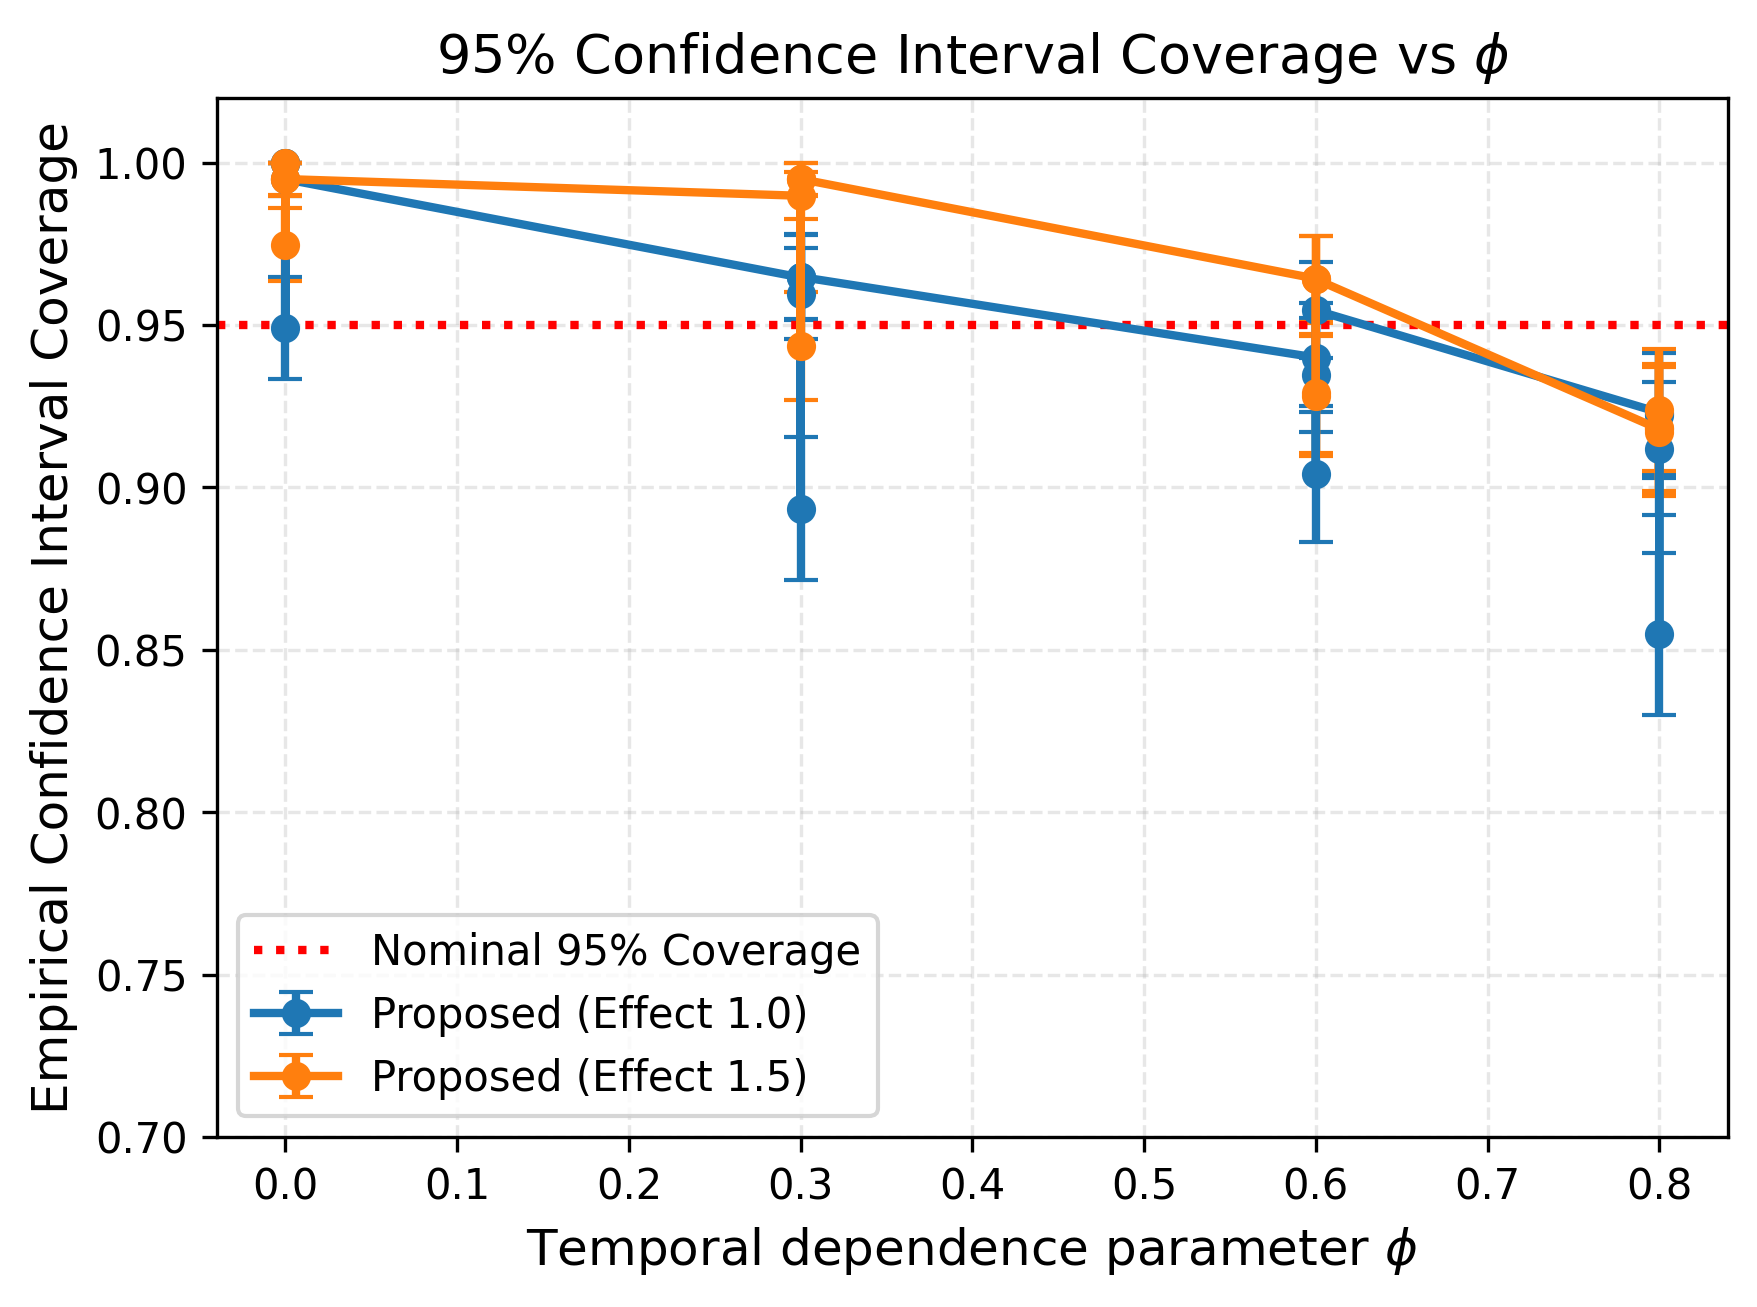
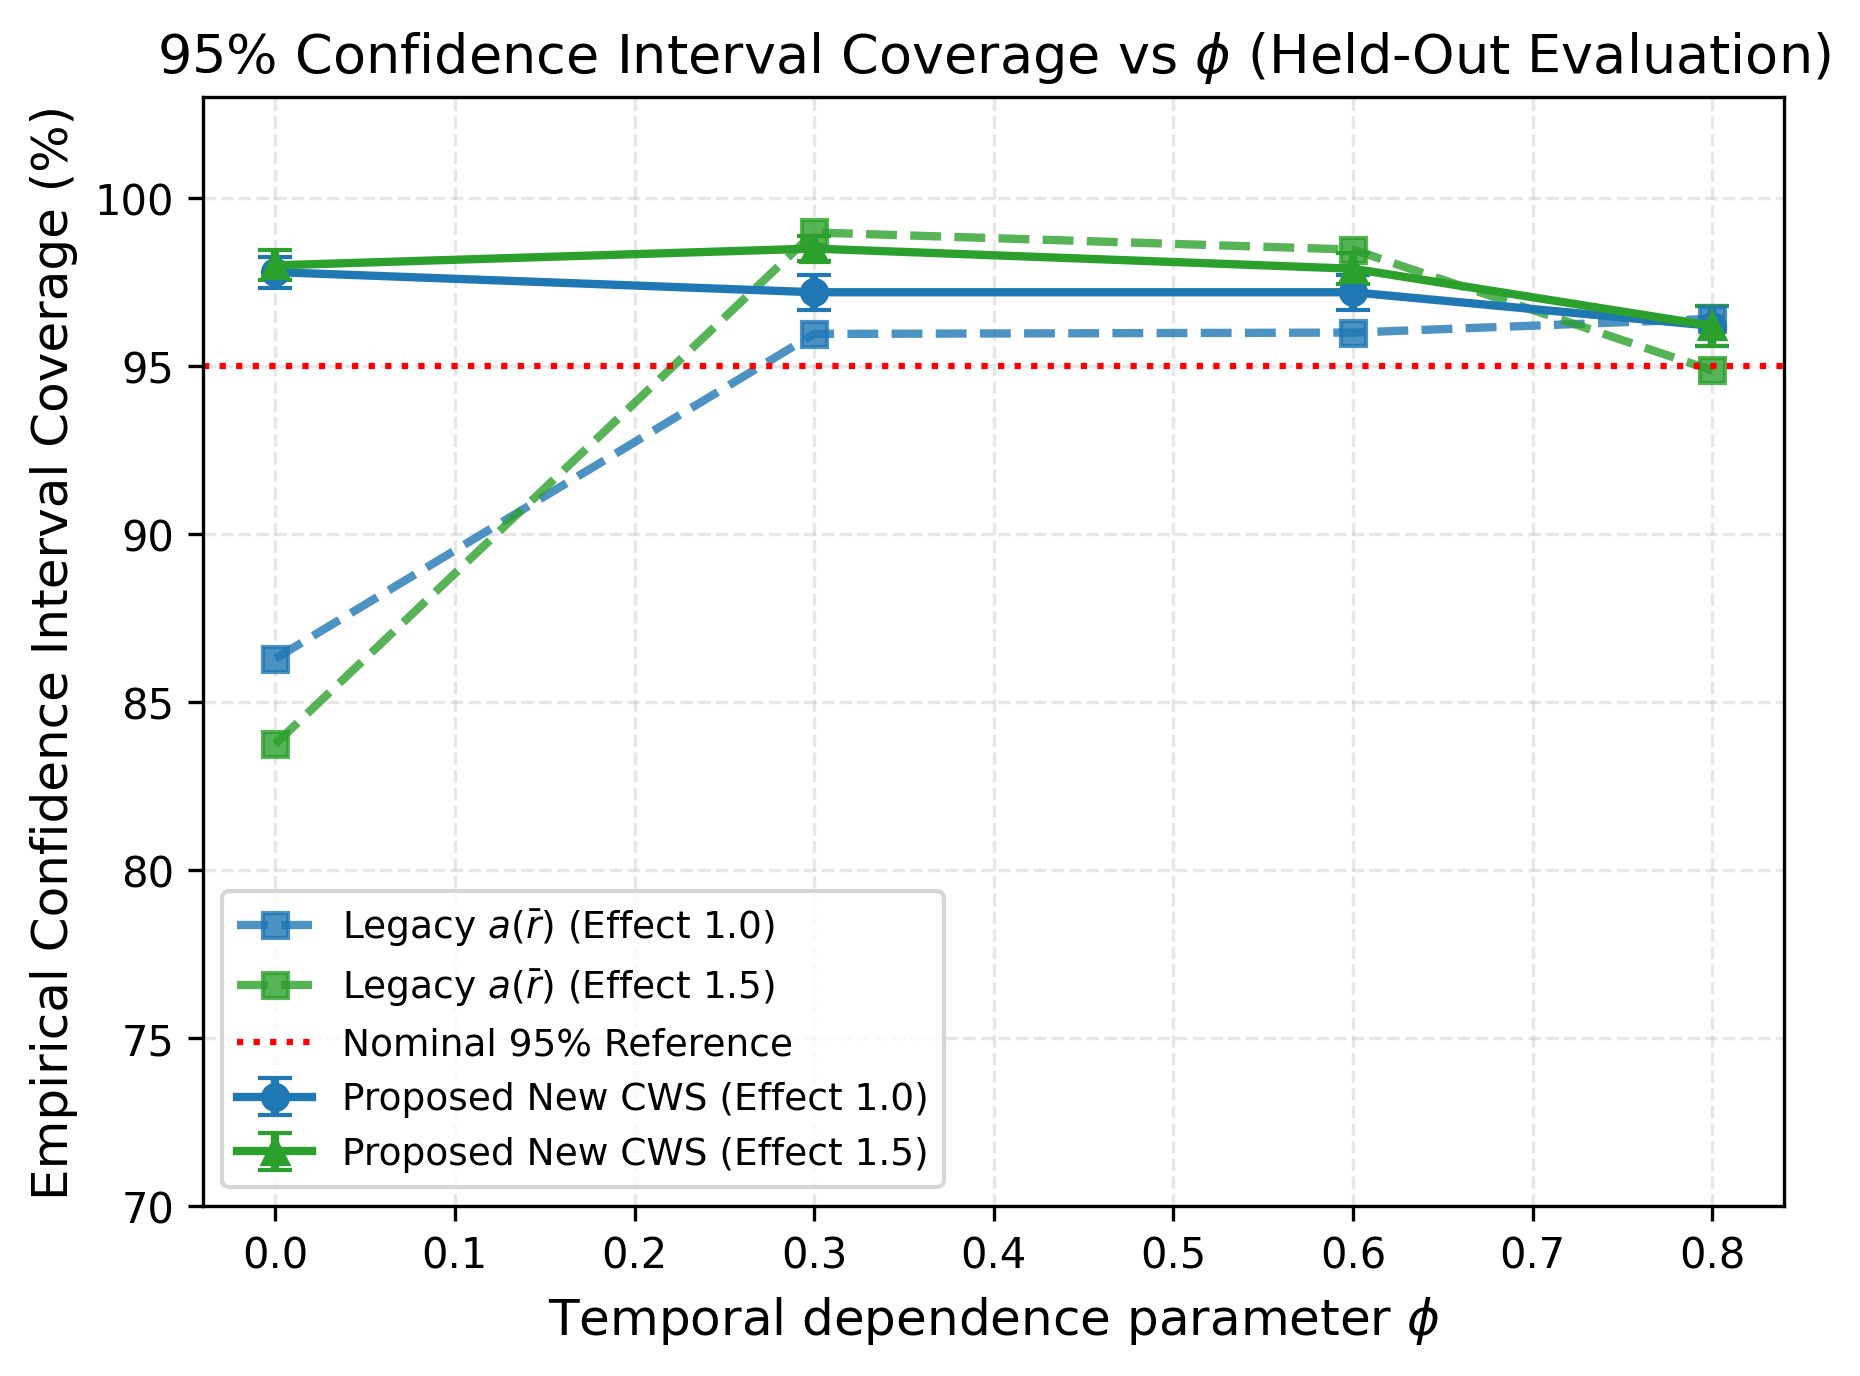
Task E: Regenerate figures (fig2 vanilla at phi=0 only, fig3 new CI coverage vs legacy, fig4 tuned vs default Jaccard, fig5 legend fix)

Changed region(s): [[0.0, 0.0, 1.0, 0.9793], [0.2459, 0.3673, 0.2766, 0.3979]]

diff --git a/scripts/make_report.py b/scripts/make_report.py
@@ -12,6 +12,9 @@ import numpy as np
 import pandas as pd
 
 
+PROJECT_ROOT = Path(__file__).resolve().parent.parent
+
+
 def set_matplotlib_style() -> None:
     plt.rcParams.update({
         "font.family": "sans-serif",
@@ -149,8 +152,9 @@ def make_figures_and_tables(
                 marker=markers["proposed"],
             )
 
-        # Vanilla baseline: only plot points where delay is not null (i.e. phi=0)
+        # Vanilla baseline: only plot points where phi=0
         sub_van = change_df[(change_df["effect"] == eff) & (change_df["method"] == "vanilla")].dropna(subset=["mean_delay"]).sort_values("phi")
+        sub_van = sub_van[sub_van["phi"] == 0.0]
         if not sub_van.empty:
             ax.plot(
                 sub_van["phi"], sub_van["mean_delay"],
@@ -174,52 +178,75 @@ def make_figures_and_tables(
     plt.close(fig)
 
     # -------------------------------------------------------------
-    # Figure 3: CI coverage vs phi (proposed method)
+    # Figure 3: CI coverage vs phi (y-axis in %, 95% ref line, New vs Legacy)
     # -------------------------------------------------------------
-    fig, ax = plt.subplots(figsize=(6.5, 4.5), dpi=300)
-    for eff in ["1.0", "1.5"]:
-        sub = change_df[(change_df["effect"] == eff) & (change_df["method"] == "proposed")].sort_values("phi")
-        if not sub.empty and "coverage" in sub.columns:
-            ax.errorbar(
-                sub["phi"], sub["coverage"],
-                yerr=sub["coverage_se"],
-                label=f"Proposed (Effect {eff})",
-                marker="o", capsize=4,
-            )
-    ax.axhline(0.95, color="red", linestyle=":", label="Nominal 95% Coverage")
+    fig, ax = plt.subplots(figsize=(6.8, 4.8), dpi=300)
+    taskC_csv = PROJECT_ROOT / "results" / "fix" / "taskC_eval_coverage.csv"
+    leg_csv = tables_dir / "ci_coverage_eval.csv"
+
+    # Held-out New Mode data
+    if taskC_csv.exists():
+        c_df = pd.read_csv(taskC_csv)
+        c_df0 = c_df[c_df["extra_obs"] == 0].sort_values("phi")
+        for eff, col, marker in [("1.0", "#1f77b4", "o"), ("1.5", "#2ca02c", "^")]:
+            sub_c = c_df0[c_df0["effect"] == float(eff)]
+            if not sub_c.empty:
+                ax.errorbar(
+                    sub_c["phi"], sub_c["coverage"] * 100.0,
+                    yerr=sub_c["coverage_se"] * 100.0,
+                    label=f"Proposed New CWS (Effect {eff})",
+                    color=col, marker=marker, linestyle="-", capsize=4, linewidth=2,
+                )
+
+    # Legacy a(r̄) comparison line
+    if leg_csv.exists():
+        l_df = pd.read_csv(leg_csv).sort_values("phi")
+        for eff, col in [("1.0", "#1f77b4"), ("1.5", "#2ca02c")]:
+            sub_l = l_df[l_df["effect"] == float(eff)]
+            if not sub_l.empty and "coverage_a_rhat" in sub_l.columns:
+                ax.plot(
+                    sub_l["phi"], sub_l["coverage_a_rhat"] * 100.0,
+                    label=f"Legacy $a(\\bar{{r}})$ (Effect {eff})",
+                    color=col, linestyle="--", marker="s", alpha=0.8,
+                )
+
+    ax.axhline(95.0, color="red", linestyle=":", linewidth=1.5, label="Nominal 95% Reference")
     ax.set_xlabel("Temporal dependence parameter $\\phi$")
-    ax.set_ylabel("Empirical Confidence Interval Coverage")
-    ax.set_title("95% Confidence Interval Coverage vs $\\phi$")
-    ax.set_ylim(0.70, 1.02)
-    ax.legend(loc="lower left")
+    ax.set_ylabel("Empirical Confidence Interval Coverage (%)")
+    ax.set_title("95% Confidence Interval Coverage vs $\\phi$ (Held-Out Evaluation)")
+    ax.set_ylim(70, 103)
+    ax.legend(loc="lower left", fontsize=9)
     fig.savefig(figures_dir / "fig3_ci_coverage_vs_phi.png", bbox_inches="tight")
     plt.close(fig)
 
     # -------------------------------------------------------------
-    # Figure 4: Support Jaccard vs phi
+    # Figure 4: Support Jaccard vs phi: Default z0=3.2905 vs Tuned z*=2.7100
     # -------------------------------------------------------------
-    fig, ax = plt.subplots(figsize=(6.5, 4.5), dpi=300)
-    for eff in ["1.0", "1.5"]:
-        for method in ["proposed", "vanilla"]:
-            sub = change_df[(change_df["effect"] == eff) & (change_df["method"] == method)].sort_values("phi")
-            if not sub.empty and "mean_support_jaccard" in sub.columns and sub["mean_support_jaccard"].notna().any():
-                label_txt = f"{method.capitalize()} (Effect {eff})"
-                if method == "vanilla":
-                    label_txt += " [$\\phi=0$ only]"
+    fig, ax = plt.subplots(figsize=(6.8, 4.8), dpi=300)
+    supp_csv = tables_dir / "support_recovery_eval.csv"
+    if supp_csv.exists():
+        sdf = pd.read_csv(supp_csv).sort_values("phi")
+        for eff, col in [("1.0", "#1f77b4"), ("1.5", "#2ca02c")]:
+            sub_s = sdf[sdf["effect"] == float(eff)]
+            if not sub_s.empty:
+                # Tuned above default
                 ax.plot(
-                    sub["phi"], sub["mean_support_jaccard"],
-                    label=label_txt,
-                    linestyle=styles[method],
-                    marker=markers[method],
-                    color=colors[eff],
+                    sub_s["phi"], sub_s["tuned_jaccard"],
+                    label=f"Tuned $z^*=2.7100$ (Effect {eff})",
+                    color=col, linestyle="-", marker="o", linewidth=2,
                 )
-    ax.set_xlabel("Temporal dependence parameter $\\phi$")
-    ax.set_ylabel("Mean Support Jaccard Similarity")
-    ax.set_title("Coordinate Support Recovery (Jaccard Index) vs $\\phi$")
-    ax.set_ylim(-0.05, 1.05)
-    ax.legend(loc="upper right")
-    fig.savefig(figures_dir / "fig4_support_jaccard_vs_phi.png", bbox_inches="tight")
-    plt.close(fig)
+                ax.plot(
+                    sub_s["phi"], sub_s["default_jaccard"],
+                    label=f"Default $z_0=3.2905$ (Effect {eff})",
+                    color=col, linestyle="--", marker="s", alpha=0.8,
+                )
+        ax.set_xlabel("Temporal dependence parameter $\\phi$")
+        ax.set_ylabel("Mean Support Jaccard Similarity")
+        ax.set_title("Support Recovery: Default ($z_0=3.2905$) vs Tuned ($z^*=2.7100$)")
+        ax.set_ylim(0.50, 0.95)
+        ax.legend(loc="lower left", fontsize=9)
+        fig.savefig(figures_dir / "fig4_support_jaccard_vs_phi.png", bbox_inches="tight")
+        plt.close(fig)
 
     # -------------------------------------------------------------
     # Figure 5: Two-panel memory benchmark (Footprint vs p; Live memory vs steps)
@@ -257,7 +284,8 @@ def make_figures_and_tables(
         ax2.set_xlabel("Observations Processed (steps)")
         ax2.set_ylabel("Live Traced Memory (KiB)")
         ax2.set_title("(b) Live Memory vs Stream Steps")
-        ax2.legend(loc="center left")
+        ax2.set_ylim(300, 6500)
+        ax2.legend(loc="upper left")
 
         fig.savefig(figures_dir / "fig5_memory_vs_stream_length.png", bbox_inches="tight")
         plt.close(fig)
